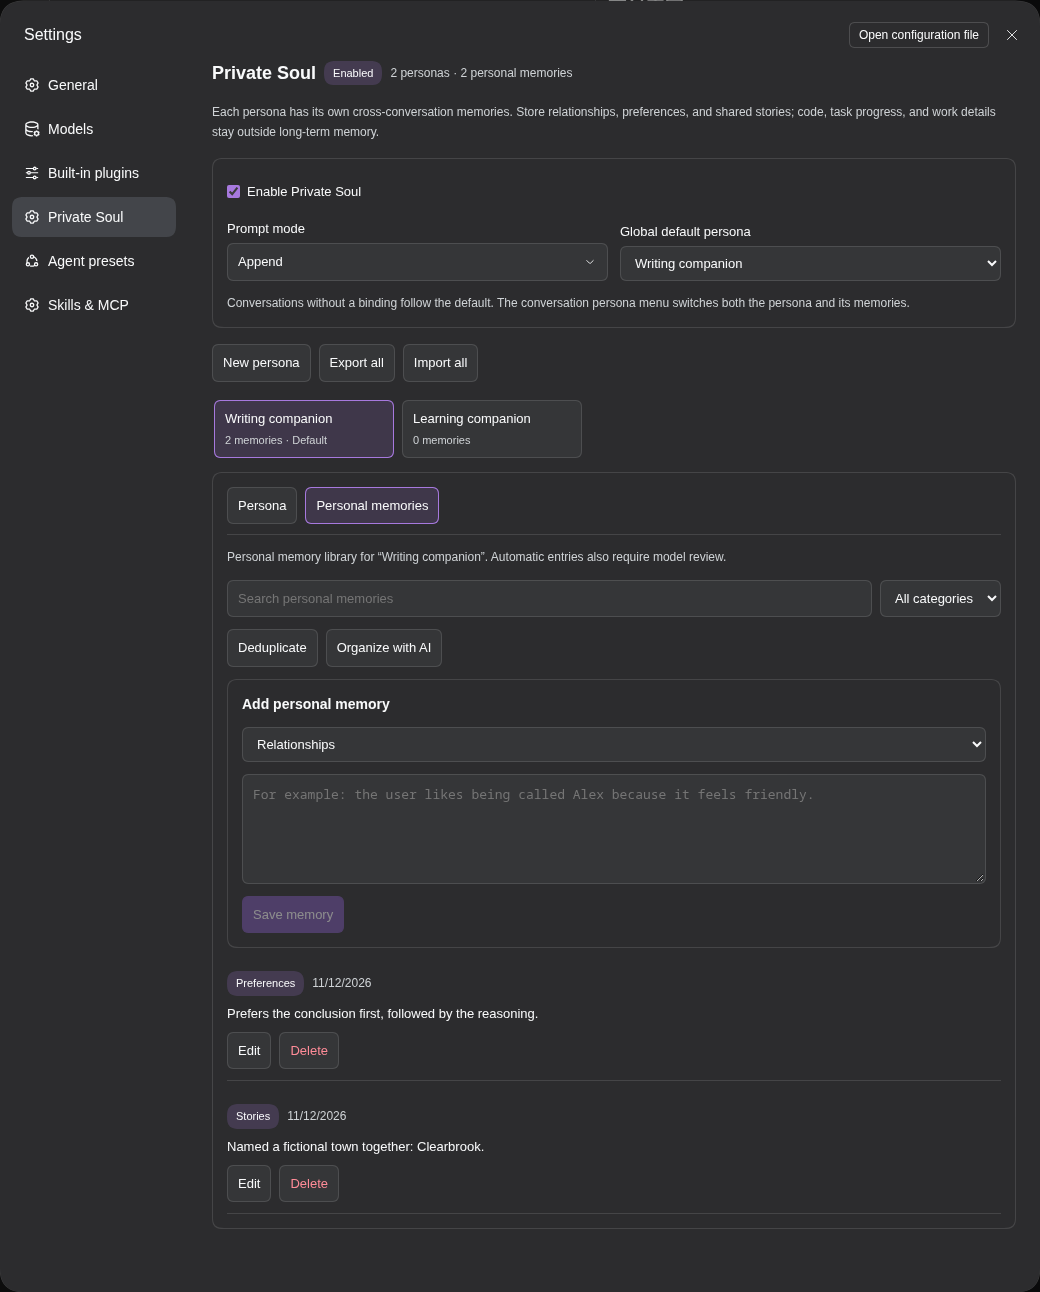
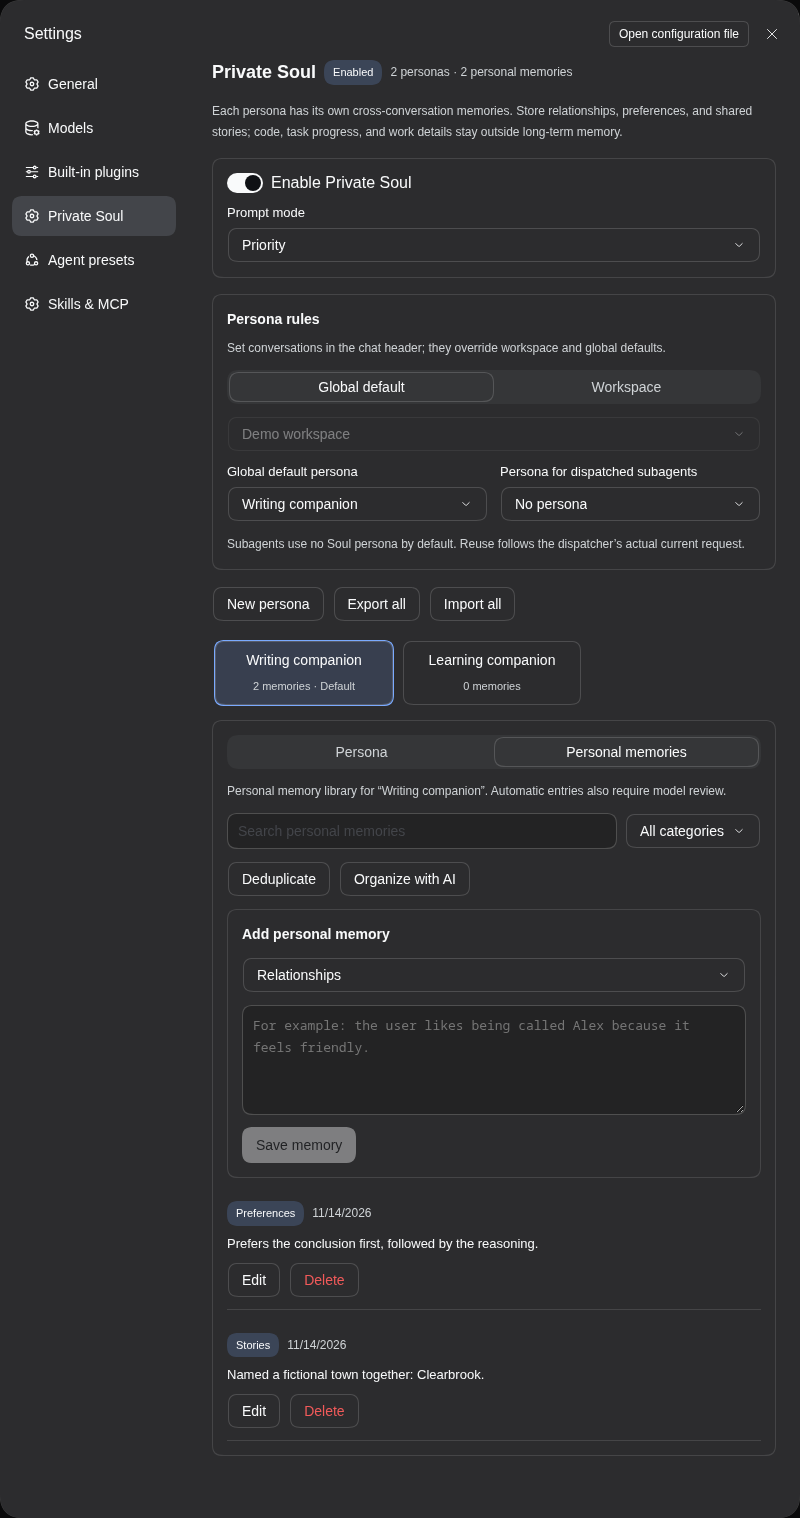
Refresh native UI screenshots and verify Standard/PTC Skill injection

diff --git a/README.en.md b/README.en.md
@@ -33,9 +33,11 @@ Verified against the native DeepSeek Harness **0.2.2-rc.2** Web service using re
 | Preset | Capability Desk | Soul Desk | File Bridge |
 | --- | --- | --- | --- |
 | Standard `standard` | Skill/MCP catalogs, rules and invocation guards work | All three injection modes, memories and child policies work | Download and access checks work |
-| PTC `ptc` | Disabled tools are omitted from the SDK and nested calls remain guarded | Preserves the `run_code` protocol and SDK; memory tools work through SDK calls | Works independently of tool-call style |
+| PTC `ptc` | Enabled Skills are injected normally; enabled tools stay in the SDK, while disabled entries are hidden and guarded | Preserves the `run_code` protocol and SDK; memory tools work through SDK calls | Works independently of tool-call style |
 | Minimal `minimal` | Rules work without adding a Skill loader, editor or subagent tools | Persona and memory support preserves the preset's existing tool boundary | Works |
 | Creation `cordis` | Skill/MCP rules preserve native creation tools | All three injection modes, memories and child policies work | Works |
+
+PTC and Standard both receive the available Skill catalog, persona and memories. Full Skill instructions enter context when loaded. PTC invokes tools through the `run_code` SDK; Standard invokes them directly. All six combinations with Priority, Complete and Append were tested: enabled Skills load, while disabled ones cannot be forced.
 
 Minimal does not ship a Skill loader or subagents; enabling a Skill does not install those tools into that preset. Global plugins can still contribute their own memory or MCP tools. Soul child policies default to no persona; parent reuse is explicit. Soul's Complete mode replaces the preset's prompt body while preserving executor protocol/SDK sections, tool schemas and native runtime context. Use Priority or Append to keep the original task instructions. Custom presets that isolate or replace underlying registries, and external ACP backends, need separate verification.
 
@@ -55,13 +57,15 @@ See [four-preset acceptance](docs/AGENT-PRESET-COMPATIBILITY.md).
 
 Create and edit personas, choose a prompt mode, and select the default. Each conversation can use a specific persona, follow the default, or turn personas off.
 
-![Persona management with a default selector, prompt mode, and editor](https://raw.githubusercontent.com/ousiqwq/dsh-soul-desk/main/docs/images/personas.en.png?v=0.3.1)
+Screenshots show the current native DSH UI with isolated sample data; settings are expanded for readability.
+
+![Persona management with a default selector, prompt mode, and editor](https://raw.githubusercontent.com/ousiqwq/dsh-soul-desk/main/docs/images/personas.en.png?v=0.4.2)
 
 ### Personal memories
 
 Filter and search by category, add or edit memories, and preview consolidation before applying it.
 
-![Memory filtering, editing, and consolidation controls](https://raw.githubusercontent.com/ousiqwq/dsh-soul-desk/main/docs/images/memories.en.png?v=0.3.1)
+![Memory filtering, editing, and consolidation controls](https://raw.githubusercontent.com/ousiqwq/dsh-soul-desk/main/docs/images/memories.en.png?v=0.4.2)
 
 ## Usage
 

diff --git a/README.md b/README.md
@@ -33,9 +33,11 @@ dsh plugin --profile web add dsh-plugin-private-soul
 | 预设 | Capability Desk | Soul Desk | File Bridge |
 | --- | --- | --- | --- |
 | 标准 `standard` | Skill/MCP 规则、目录及调用拦截有效 | 三种注入方式、记忆与子代理规则有效 | 文件下载及权限校验有效 |
-| PTC `ptc` | SDK 中隐藏禁用工具，嵌套调用仍受拦截 | 保留 `run_code` 协议与工具 SDK，记忆可从 SDK 调用 | 同样有效，与工具调用形式无关 |
+| PTC `ptc` | 可用 Skill 正常注入；启用的工具保留在 SDK 中，仅隐藏并拦截禁用项 | 保留 `run_code` 协议与工具 SDK，记忆可从 SDK 调用 | 同样有效，与工具调用形式无关 |
 | 极简 `minimal` | 规则仍有效；不会额外添加 Skill 加载、编辑或子代理工具 | 人设与记忆有效，保留预设原有工具边界 | 同样有效 |
 | 创造 `cordis` | Skill/MCP 规则有效，不移除原生创造工具 | 三种注入方式、记忆与子代理规则有效 | 同样有效 |
+
+PTC 与标准模式都保留可用 Skill 目录、人设和记忆。Skill 完整说明仍在加载后进入上下文；PTC 通过 `run_code` 调用 SDK，标准模式直接调用工具。已实测两种模式与“优先／替换／追加”的六种组合，启用项可加载，禁用项不可强行调用。
 
 极简模式没有原生 Skill 加载器或子代理，启用某项 Skill 不会为该预设补装这些工具。全局插件仍可提供自己的记忆或 MCP 工具。子代理策略以 Soul 的设置为准，默认不使用人设；复用派出者需明确配置。Soul 的“替换”模式替换预设提示词正文，但保留执行器协议/SDK、工具 schema 和原生运行上下文；希望保留原有任务说明时使用“优先”或“追加”。自定义预设若隔离或替换底层注册表、外部 ACP 后端，不在本次统一保证范围。
 
@@ -55,13 +57,15 @@ dsh plugin --profile web add dsh-plugin-private-soul
 
 新建或编辑人设，选择注入方式和默认人设。聊天页可独立选择具体人设、跟随默认或停用。
 
-![人设管理：全局默认、注入方式与人格编辑](https://raw.githubusercontent.com/ousiqwq/dsh-soul-desk/main/docs/images/personas.png?v=0.3.1)
+截图使用当前 DSH 原生界面与隔离示例数据；设置区域为阅读方便展开显示。
+
+![人设管理：全局默认、注入方式与人格编辑](https://raw.githubusercontent.com/ousiqwq/dsh-soul-desk/main/docs/images/personas.png?v=0.4.2)
 
 ### 个人记忆
 
 按类别筛选和搜索记忆，手动补充内容，或先查看智能整理建议再应用。
 
-![个人记忆：筛选、编辑与整理](https://raw.githubusercontent.com/ousiqwq/dsh-soul-desk/main/docs/images/memories.png?v=0.3.1)
+![个人记忆：筛选、编辑与整理](https://raw.githubusercontent.com/ousiqwq/dsh-soul-desk/main/docs/images/memories.png?v=0.4.2)
 
 ## 使用
 
